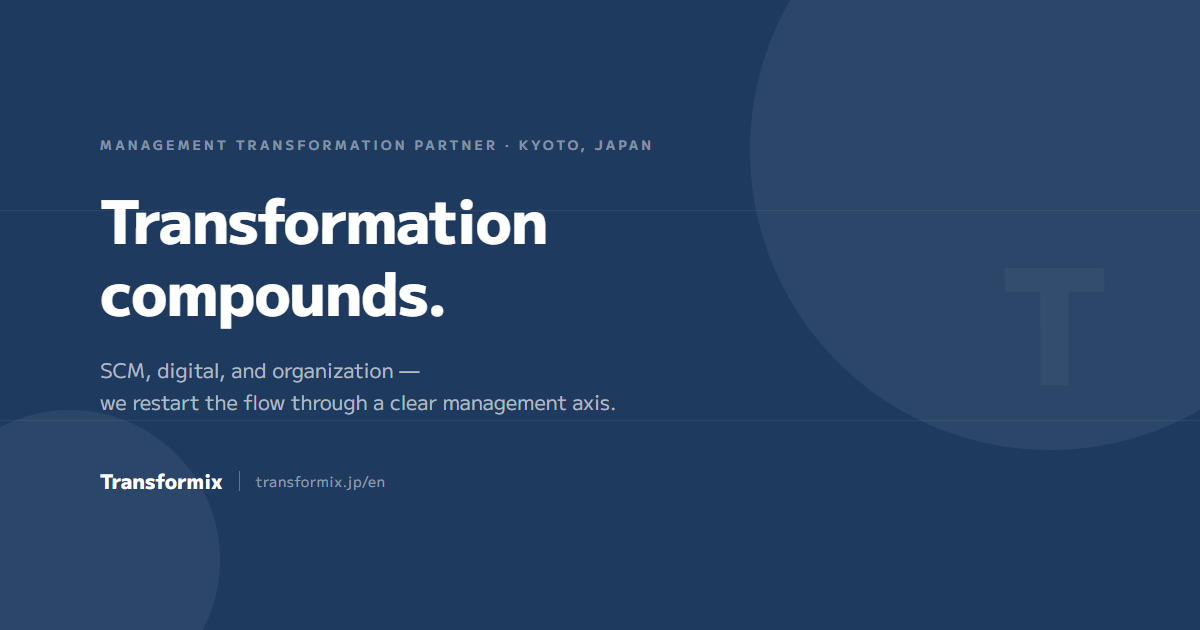
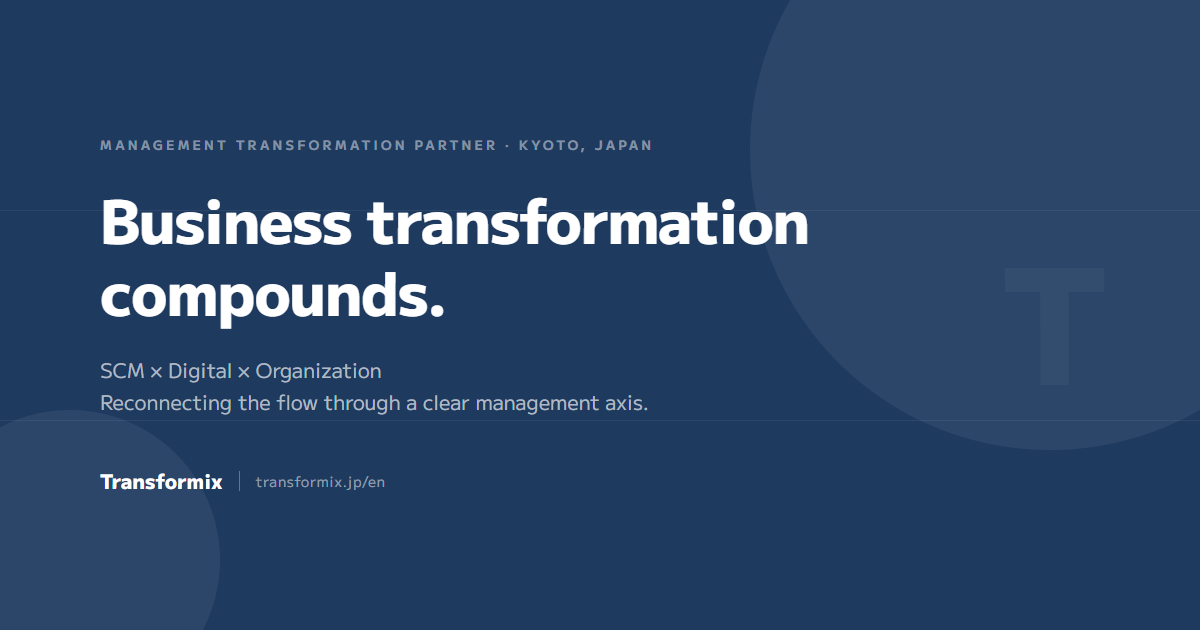
fix: OGP画像を新コピーに合わせて再生成（日英）

Changed region(s): [[0.0617, 0.3016, 0.6783, 0.3921], [0.0617, 0.573, 0.555, 0.6635]]

diff --git a/ogp-design.html b/ogp-design.html
@@ -1,0 +1,141 @@
+<!DOCTYPE html>
+<html lang="ja">
+<head>
+  <meta charset="UTF-8">
+  <meta name="viewport" content="width=1200">
+  <link rel="preconnect" href="https://fonts.googleapis.com" crossorigin>
+  <link href="https://fonts.googleapis.com/css2?family=M+PLUS+2:wght@400;700;800&display=swap" rel="stylesheet">
+  <style>
+    *, *::before, *::after { box-sizing: border-box; margin: 0; padding: 0; }
+    body {
+      width: 1200px;
+      height: 630px;
+      overflow: hidden;
+      font-family: 'M PLUS 2', 'Hiragino Sans', 'Yu Gothic', sans-serif;
+      background: #1e3a5f;
+      color: #fff;
+      display: flex;
+      align-items: center;
+      justify-content: center;
+      position: relative;
+    }
+
+    /* 背景装飾 */
+    .bg-circle {
+      position: absolute;
+      border-radius: 50%;
+      opacity: 0.06;
+      background: #fff;
+    }
+    .bg-circle-1 { width: 600px; height: 600px; right: -150px; top: -150px; }
+    .bg-circle-2 { width: 300px; height: 300px; left: -80px; bottom: -80px; }
+
+    .bg-line {
+      position: absolute;
+      background: rgba(255,255,255,0.06);
+      height: 1px;
+      width: 100%;
+      left: 0;
+    }
+    .bg-line-1 { top: 210px; }
+    .bg-line-2 { top: 420px; }
+
+    /* メインコンテンツ */
+    .inner {
+      position: relative;
+      z-index: 1;
+      padding: 0 100px;
+      width: 100%;
+    }
+
+    .eyebrow {
+      font-size: 13px;
+      font-weight: 700;
+      letter-spacing: 0.25em;
+      text-transform: uppercase;
+      color: rgba(255,255,255,0.45);
+      margin-bottom: 28px;
+    }
+
+    h1 {
+      font-size: 64px;
+      font-weight: 800;
+      line-height: 1.2;
+      letter-spacing: -0.02em;
+      margin-bottom: 28px;
+    }
+
+    .sub {
+      font-size: 22px;
+      color: rgba(255,255,255,0.65);
+      line-height: 1.6;
+      font-weight: 400;
+      margin-bottom: 48px;
+    }
+
+    .logo-area {
+      display: flex;
+      align-items: center;
+      gap: 16px;
+    }
+
+    .logo {
+      font-size: 20px;
+      font-weight: 800;
+      letter-spacing: 0.01em;
+      color: #fff;
+    }
+
+    .divider {
+      width: 1px;
+      height: 20px;
+      background: rgba(255,255,255,0.3);
+    }
+
+    .tagline {
+      font-size: 14px;
+      color: rgba(255,255,255,0.5);
+      letter-spacing: 0.05em;
+    }
+
+    /* 右側の装飾 */
+    .deco {
+      position: absolute;
+      right: 100px;
+      top: 50%;
+      transform: translateY(-50%);
+      text-align: right;
+      z-index: 1;
+    }
+
+    .deco-text {
+      font-size: 160px;
+      font-weight: 800;
+      color: rgba(255,255,255,0.04);
+      letter-spacing: -0.05em;
+      line-height: 1;
+    }
+  </style>
+</head>
+<body>
+  <div class="bg-circle bg-circle-1"></div>
+  <div class="bg-circle bg-circle-2"></div>
+  <div class="bg-line bg-line-1"></div>
+  <div class="bg-line bg-line-2"></div>
+
+  <div class="inner">
+    <div class="eyebrow">Management Transformation Partner</div>
+    <h1>経営変革は、<br>掛け算で動く。</h1>
+    <div class="sub">SCM × デジタル × 組織<br>分断された流れを、経営の軸で一本につなぐ。</div>
+    <div class="logo-area">
+      <span class="logo">Transformix</span>
+      <div class="divider"></div>
+      <span class="tagline">transformix.jp</span>
+    </div>
+  </div>
+
+  <div class="deco">
+    <div class="deco-text">T</div>
+  </div>
+</body>
+</html>

diff --git a/ogp-en-design.html b/ogp-en-design.html
@@ -1,0 +1,59 @@
+<!DOCTYPE html>
+<html lang="en">
+<head>
+  <meta charset="UTF-8">
+  <meta name="viewport" content="width=1200">
+  <link rel="preconnect" href="https://fonts.googleapis.com" crossorigin>
+  <link href="https://fonts.googleapis.com/css2?family=M+PLUS+2:wght@400;700;800&display=swap" rel="stylesheet">
+  <style>
+    *, *::before, *::after { box-sizing: border-box; margin: 0; padding: 0; }
+    body {
+      width: 1200px;
+      height: 630px;
+      overflow: hidden;
+      font-family: 'M PLUS 2', Arial, sans-serif;
+      background: #1e3a5f;
+      color: #fff;
+      display: flex;
+      align-items: center;
+      justify-content: center;
+      position: relative;
+    }
+    .bg-circle { position: absolute; border-radius: 50%; opacity: 0.06; background: #fff; }
+    .bg-circle-1 { width: 600px; height: 600px; right: -150px; top: -150px; }
+    .bg-circle-2 { width: 300px; height: 300px; left: -80px; bottom: -80px; }
+    .bg-line { position: absolute; background: rgba(255,255,255,0.06); height: 1px; width: 100%; left: 0; }
+    .bg-line-1 { top: 210px; }
+    .bg-line-2 { top: 420px; }
+    .inner { position: relative; z-index: 1; padding: 0 100px; width: 100%; }
+    .eyebrow { font-size: 13px; font-weight: 700; letter-spacing: 0.25em; text-transform: uppercase; color: rgba(255,255,255,0.45); margin-bottom: 28px; }
+    h1 { font-size: 60px; font-weight: 800; line-height: 1.2; letter-spacing: -0.02em; margin-bottom: 28px; }
+    .sub { font-size: 20px; color: rgba(255,255,255,0.65); line-height: 1.6; font-weight: 400; margin-bottom: 48px; }
+    .logo-area { display: flex; align-items: center; gap: 16px; }
+    .logo { font-size: 20px; font-weight: 800; letter-spacing: 0.01em; color: #fff; }
+    .divider { width: 1px; height: 20px; background: rgba(255,255,255,0.3); }
+    .tagline { font-size: 14px; color: rgba(255,255,255,0.5); letter-spacing: 0.05em; }
+    .deco { position: absolute; right: 100px; top: 50%; transform: translateY(-50%); text-align: right; z-index: 1; }
+    .deco-text { font-size: 160px; font-weight: 800; color: rgba(255,255,255,0.04); letter-spacing: -0.05em; line-height: 1; }
+  </style>
+</head>
+<body>
+  <div class="bg-circle bg-circle-1"></div>
+  <div class="bg-circle bg-circle-2"></div>
+  <div class="bg-line bg-line-1"></div>
+  <div class="bg-line bg-line-2"></div>
+  <div class="inner">
+    <div class="eyebrow">Management Transformation Partner · Kyoto, Japan</div>
+    <h1>Business transformation<br>compounds.</h1>
+    <div class="sub">SCM × Digital × Organization<br>Reconnecting the flow through a clear management axis.</div>
+    <div class="logo-area">
+      <span class="logo">Transformix</span>
+      <div class="divider"></div>
+      <span class="tagline">transformix.jp/en</span>
+    </div>
+  </div>
+  <div class="deco">
+    <div class="deco-text">T</div>
+  </div>
+</body>
+</html>

diff --git a/gen-ogp.js b/gen-ogp.js
@@ -1,0 +1,24 @@
+const puppeteer = require('puppeteer');
+const path = require('path');
+
+(async () => {
+  const browser = await puppeteer.launch({ args: ['--no-sandbox'] });
+  const page = await browser.newPage();
+  await page.setViewport({ width: 1200, height: 630, deviceScaleFactor: 1 });
+
+  // 日本語版
+  const filePathJa = 'file:///' + path.resolve('ogp-design.html').split('\\').join('/');
+  await page.goto(filePathJa, { waitUntil: 'networkidle0' });
+  await new Promise(r => setTimeout(r, 2000));
+  await page.screenshot({ path: 'ogp.png', type: 'png' });
+  console.log('ogp.png done');
+
+  // 英語版
+  const filePathEn = 'file:///' + path.resolve('ogp-en-design.html').split('\\').join('/');
+  await page.goto(filePathEn, { waitUntil: 'networkidle0' });
+  await new Promise(r => setTimeout(r, 2000));
+  await page.screenshot({ path: 'ogp-en.png', type: 'png' });
+  console.log('ogp-en.png done');
+
+  await browser.close();
+})();
